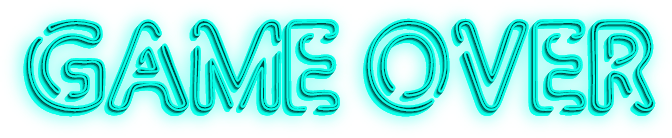
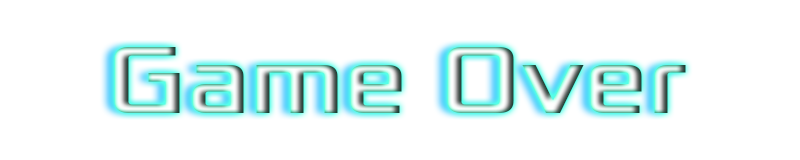
Реализован вывод журнала в XML-файл(3 урок,задание 2b), переход на след. уровень(4 урок 1 задание)

diff --git a/MyGame/MyGame/Game.cs b/MyGame/MyGame/Game.cs
@@ -6,6 +6,7 @@ using System.Threading.Tasks;
 using System.Windows.Forms;
 using System.Drawing;
 using System.Text.RegularExpressions;
+using System.IO;
 
 namespace MyGame
 {
@@ -22,15 +23,23 @@ namespace MyGame
         private static BufferedGraphicsContext _context;
         public static BufferedGraphics Buffer;
         /// <summary>
-        /// Поле для хранения изображения фона.
+        /// Изображения фона.
         /// </summary>
         public static Bitmap bg;
         /// <summary>
-        /// Свойство, задающее ширину окна.
+        /// Изображение сообщения Game Over.
+        /// </summary>
+        public static Bitmap gameOver;
+        /// <summary>
+        /// Изображение сообщения Next Level.
+        /// </summary>
+        public static Bitmap nextLevel;
+        /// <summary>
+        /// Свойство, задающее ширину игрового поля.
         /// </summary>
         public static int Width { get; private set; }
         /// <summary>
-        /// Свойство, задающее высоту окна.
+        /// Свойство, задающее высоту игрового поля.
         /// </summary>
         public static int Height { get; private set; }
         /// <summary>
@@ -45,6 +54,10 @@ namespace MyGame
         /// Таймер.
         /// </summary>
         private static Timer timer = new Timer { Interval = 100 };
+        /// <summary>
+        /// Время, когда произошло событие.
+        /// </summary>
+        private static DateTime now;
         /// <summary>
         /// Поле для генерации рандомных чисел.
         /// </summary>
@@ -66,15 +79,27 @@ namespace MyGame
         /// </summary>
         public static List<Bullet> _bullets;
         /// <summary>
-        /// Корябль.
+        /// Корабль.
         /// </summary>
         public static Starship _ship;
+        /// <summary>
+        /// Путь к текущей директории.
+        /// </summary>
+        private static string filePath;
+        /// <summary>
+        /// Журнал.
+        /// </summary>
+        public static NotesToXML log;
         /// <summary>
         /// Конструктор класса Game.
         /// </summary>
         static Game()
         {
             bg = Properties.Resources.Universe;
+            gameOver = Properties.Resources.GameOver;
+            nextLevel = Properties.Resources.NextLevel;
+            filePath = Directory.GetCurrentDirectory();
+            log = new NotesToXML(filePath);
         }
         /// <summary>
         /// Позволяет пользователю задать разрешение экрана.
@@ -128,6 +153,7 @@ namespace MyGame
             form.KeyDown += Form_KeyDown;
             Starship.MessageDie += Finish;
             WriteMessage += LogToConsole;
+            WriteMessage += LogToXML;
         }
         /// <summary>
         /// Обработчик клавиш управления кораблем.
@@ -193,7 +219,19 @@ namespace MyGame
         public static void Finish()
         {
             timer.Stop();
-            Buffer.Graphics.DrawString("Game Over", new Font(FontFamily.GenericSansSerif, 60, FontStyle.Underline), Brushes.White, 200, 100);
+            DrawMessage(gameOver);
+        }
+        /// <summary>
+        /// Вывод сообщения на экран.
+        /// </summary>
+        /// <param name="im">Изображение с сообщением.</param>
+        public static void DrawMessage(Bitmap im)
+        {
+            int w = Game.Width / 2;
+            int h = w / 5;
+            int x = (Game.Width / 2) - (w / 2);
+            int y = (Game.Height / 2) - (h / 2) - 40;
+            Buffer.Graphics.DrawImage(im, x, y, w, h);
             Buffer.Render();
         }
         /// <summary>
@@ -202,8 +240,14 @@ namespace MyGame
         /// <param name="message">Сообщение.</param>
         public static void LogToConsole(string message)
         {
-            Console.WriteLine(message);
-        }        
+            now = DateTime.Now;
+            Console.WriteLine($"{now} : {message}");
+        }
+        public static void LogToXML(string message)
+        {
+            now = DateTime.Now;
+            log.Add(now, message, _ship.Score.ToString(), _ship.Energy.ToString());
+        }
         /// <summary>
         /// Проверка и переход на новый уровень.
         /// </summary>
@@ -219,9 +263,8 @@ namespace MyGame
                 Level++;
                 for (int i = 0; i < Quantity; i++)
                     _asteroids.Add(new Asteroid(new Point(rnd.Next(0, Width), rnd.Next(0, Height - 10)), new Point(rnd.Next(-15, -10), 0), rnd.Next(15, 48)));
-                Buffer.Graphics.DrawString("Next Level!", new Font(FontFamily.GenericSansSerif, 60, FontStyle.Underline), Brushes.White, Game.Width / 2, Game.Height / 2);
-                
-                Buffer.Render();
+                WriteMessage("Next Level!");
+                DrawMessage(nextLevel);
                 System.Threading.Thread.Sleep(3000);
             }
         }
@@ -272,7 +315,7 @@ namespace MyGame
             }
             _bullets.RemoveAll(item => item == null);
             _bullets.RemoveAll(item => item.Away == true);
-            NextLevel();
+            if (_ship.Energy > 0) NextLevel();
         }
     }
 }

diff --git a/MyGame/MyGame/Note.cs b/MyGame/MyGame/Note.cs
@@ -1,0 +1,68 @@
+using System;
+using System.Collections.Generic;
+using System.Linq;
+using System.Text;
+using System.Threading.Tasks;
+using System.Xml.Serialization;
+using System.IO;
+
+namespace MyGame
+{
+    /// <summary>
+    /// Класс записей журнала.
+    /// </summary>
+    [Serializable]
+    public class Note
+    {
+        public string Date { get; set; }
+
+        public string Time { get; set; }
+
+        public string Message { get; set; }
+
+        public string Score { get; set; }
+
+        public string Energy { get; set; }
+
+        public Note()
+        {
+        }
+
+        public Note(DateTime now, string message, string score, string energy)
+        {
+            this.Date = now.ToString("dd.MM.yyyy");
+            this.Time = now.ToString("HH:mm:ss");
+            this.Message = message;
+            this.Score = score;
+            this.Energy = energy;
+        }
+    }
+    /// <summary>
+    /// Класс для создания XML-файла журнала.
+    /// </summary>
+    class NotesToXML
+    {
+        public List<Note> List { get; private set; }
+
+        public string FileName { set; private get; }
+
+        public NotesToXML(string filePath)
+        {
+            this.FileName = Path.Combine(filePath,"log.XML");
+            List = new List<Note>();
+        }
+
+        public void Add(DateTime now, string message, string score, string energy)
+        {
+            List.Add(new Note(now, message, score, energy));
+        }
+
+        public void Save()
+        {
+            XmlSerializer xmlFormat = new XmlSerializer(typeof(List<Note>));
+            Stream fStream = new FileStream(FileName, FileMode.Create, FileAccess.Write);
+            xmlFormat.Serialize(fStream, List);
+            fStream.Close();
+        }
+    }
+}

diff --git a/MyGame/MyGame/Properties/Resources.Designer.cs b/MyGame/MyGame/Properties/Resources.Designer.cs
@@ -63,9 +63,29 @@ namespace MyGame.Properties {
         /// <summary>
         ///   Поиск локализованного ресурса типа System.Drawing.Bitmap.
         /// </summary>
+        internal static System.Drawing.Bitmap GameOver {
+            get {
+                object obj = ResourceManager.GetObject("GameOver", resourceCulture);
+                return ((System.Drawing.Bitmap)(obj));
+            }
+        }
+        
+        /// <summary>
+        ///   Поиск локализованного ресурса типа System.Drawing.Bitmap.
+        /// </summary>
         internal static System.Drawing.Bitmap Medpack {
             get {
                 object obj = ResourceManager.GetObject("Medpack", resourceCulture);
+                return ((System.Drawing.Bitmap)(obj));
+            }
+        }
+        
+        /// <summary>
+        ///   Поиск локализованного ресурса типа System.Drawing.Bitmap.
+        /// </summary>
+        internal static System.Drawing.Bitmap NextLevel {
+            get {
+                object obj = ResourceManager.GetObject("NextLevel", resourceCulture);
                 return ((System.Drawing.Bitmap)(obj));
             }
         }

diff --git a/MyGame/MyGame/Program.cs b/MyGame/MyGame/Program.cs
@@ -11,6 +11,7 @@ namespace MyGame
     {
         static void Main(string[] args)
         {
+            Application.ApplicationExit += HandleAppExit;
             Game.Resolution();
             Form form = new Form
             {
@@ -22,6 +23,11 @@ namespace MyGame
             Game.Load();
             Game.Draw();
             Application.Run(form);
+        }
+        static void HandleAppExit(object sender, EventArgs e)
+        {
+            // Обработчик события Application.ApplicationExit
+            Game.log.Save();
         }
     }
 }

diff --git a/MyGame/MyGame/Bullet.cs b/MyGame/MyGame/Bullet.cs
@@ -12,9 +12,10 @@ namespace MyGame
     /// </summary>
     class Bullet : BaseObject
     {
-        public bool Away { get; private set; } = false;
+        public bool Away { get; private set; }
         public Bullet(Point pos, Point dir, Size size) : base(pos, dir, size)
         {
+            Away = false;
         }
 
         public override void Draw()
